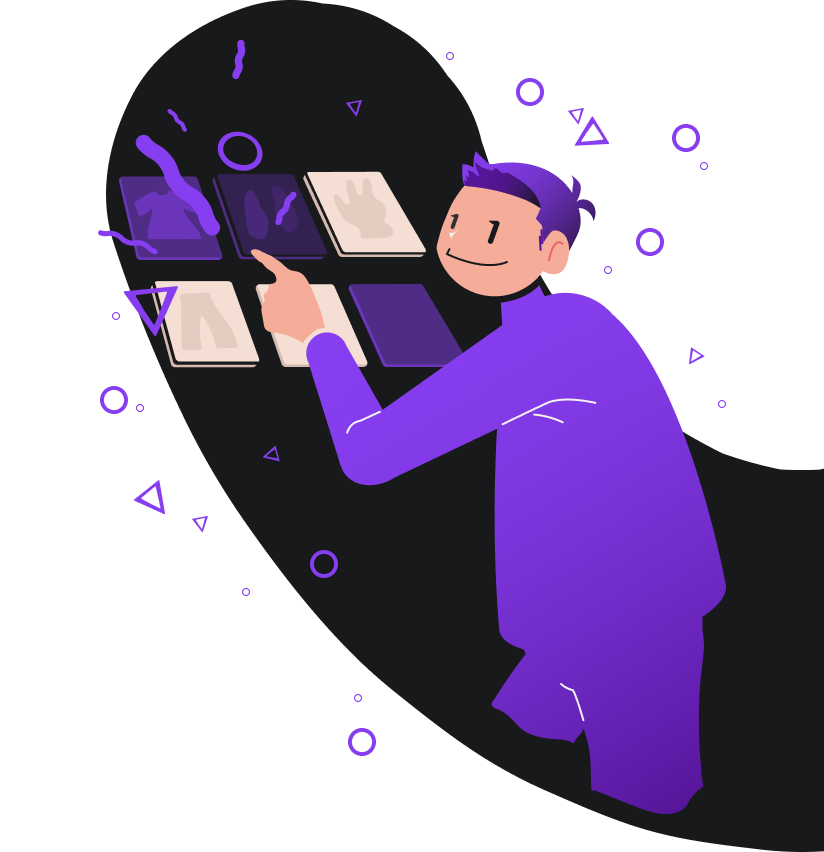
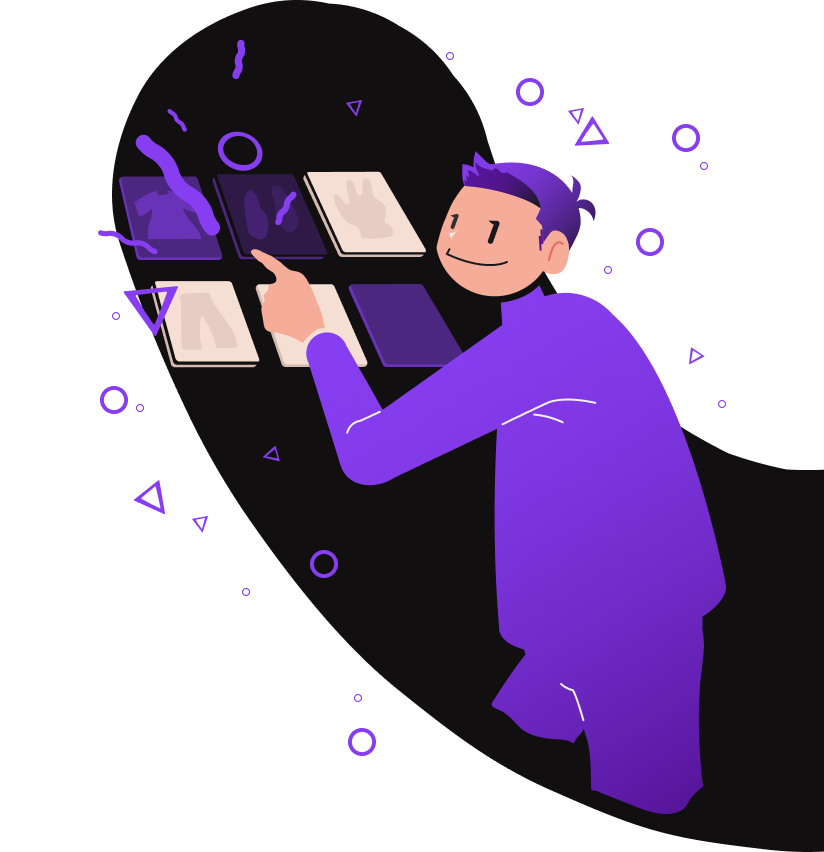
Design : 온보딩 이미지 수정

diff --git a/src/pages/AiOnboardingScreen.jsx b/src/pages/AiOnboardingScreen.jsx
@@ -59,7 +59,7 @@ const AiOnboardingScreen = ({ navigation }) => {
 					<Text style={styles.subtitle}>순식간에 색상 조합 끝</Text>
 					<Image
 						source={require('../assets/images/onboarding1.png')}
-						style={styles.backgroundImage}
+						style={[styles.backgroundImage, { top: 1 }]}
 						resizeMode="contain"
 					/>
 				</View>
@@ -82,7 +82,7 @@ const AiOnboardingScreen = ({ navigation }) => {
 					</Text>
 					<Image
 						source={require('../assets/images/onboarding2.png')}
-						style={[styles.backgroundImage, { top: -12 }]}
+						style={[styles.backgroundImage, { top: -16 }]}
 						resizeMode="contain"
 					/>
 				</View>
